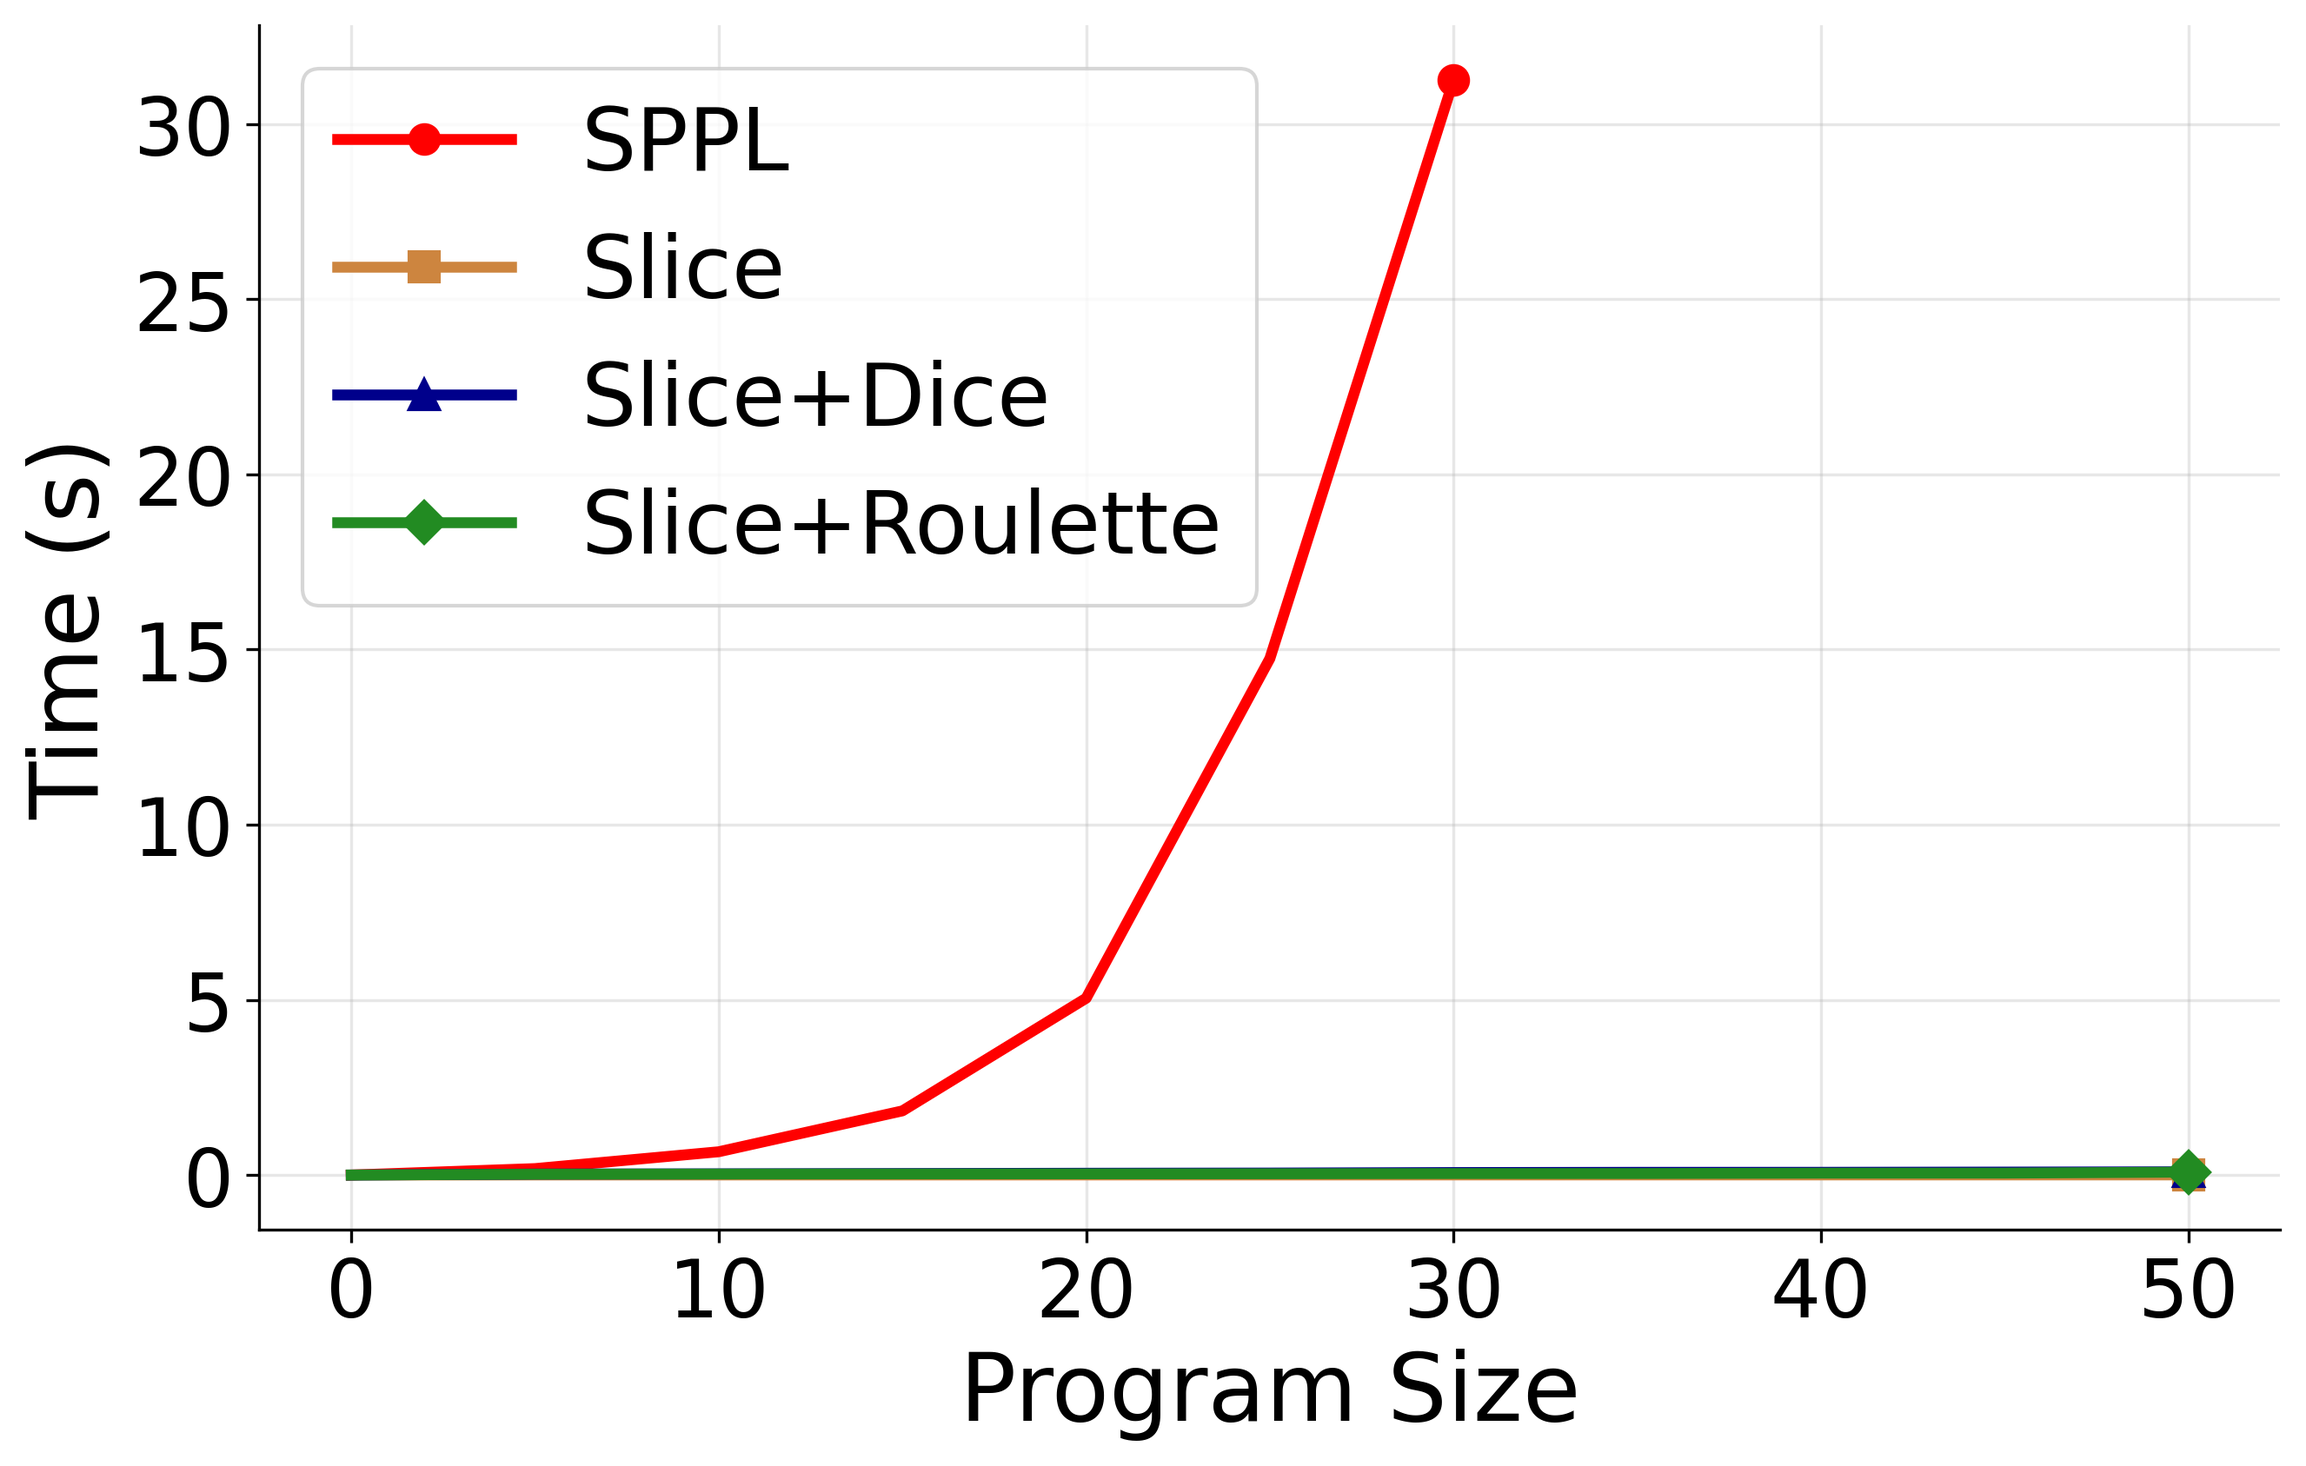
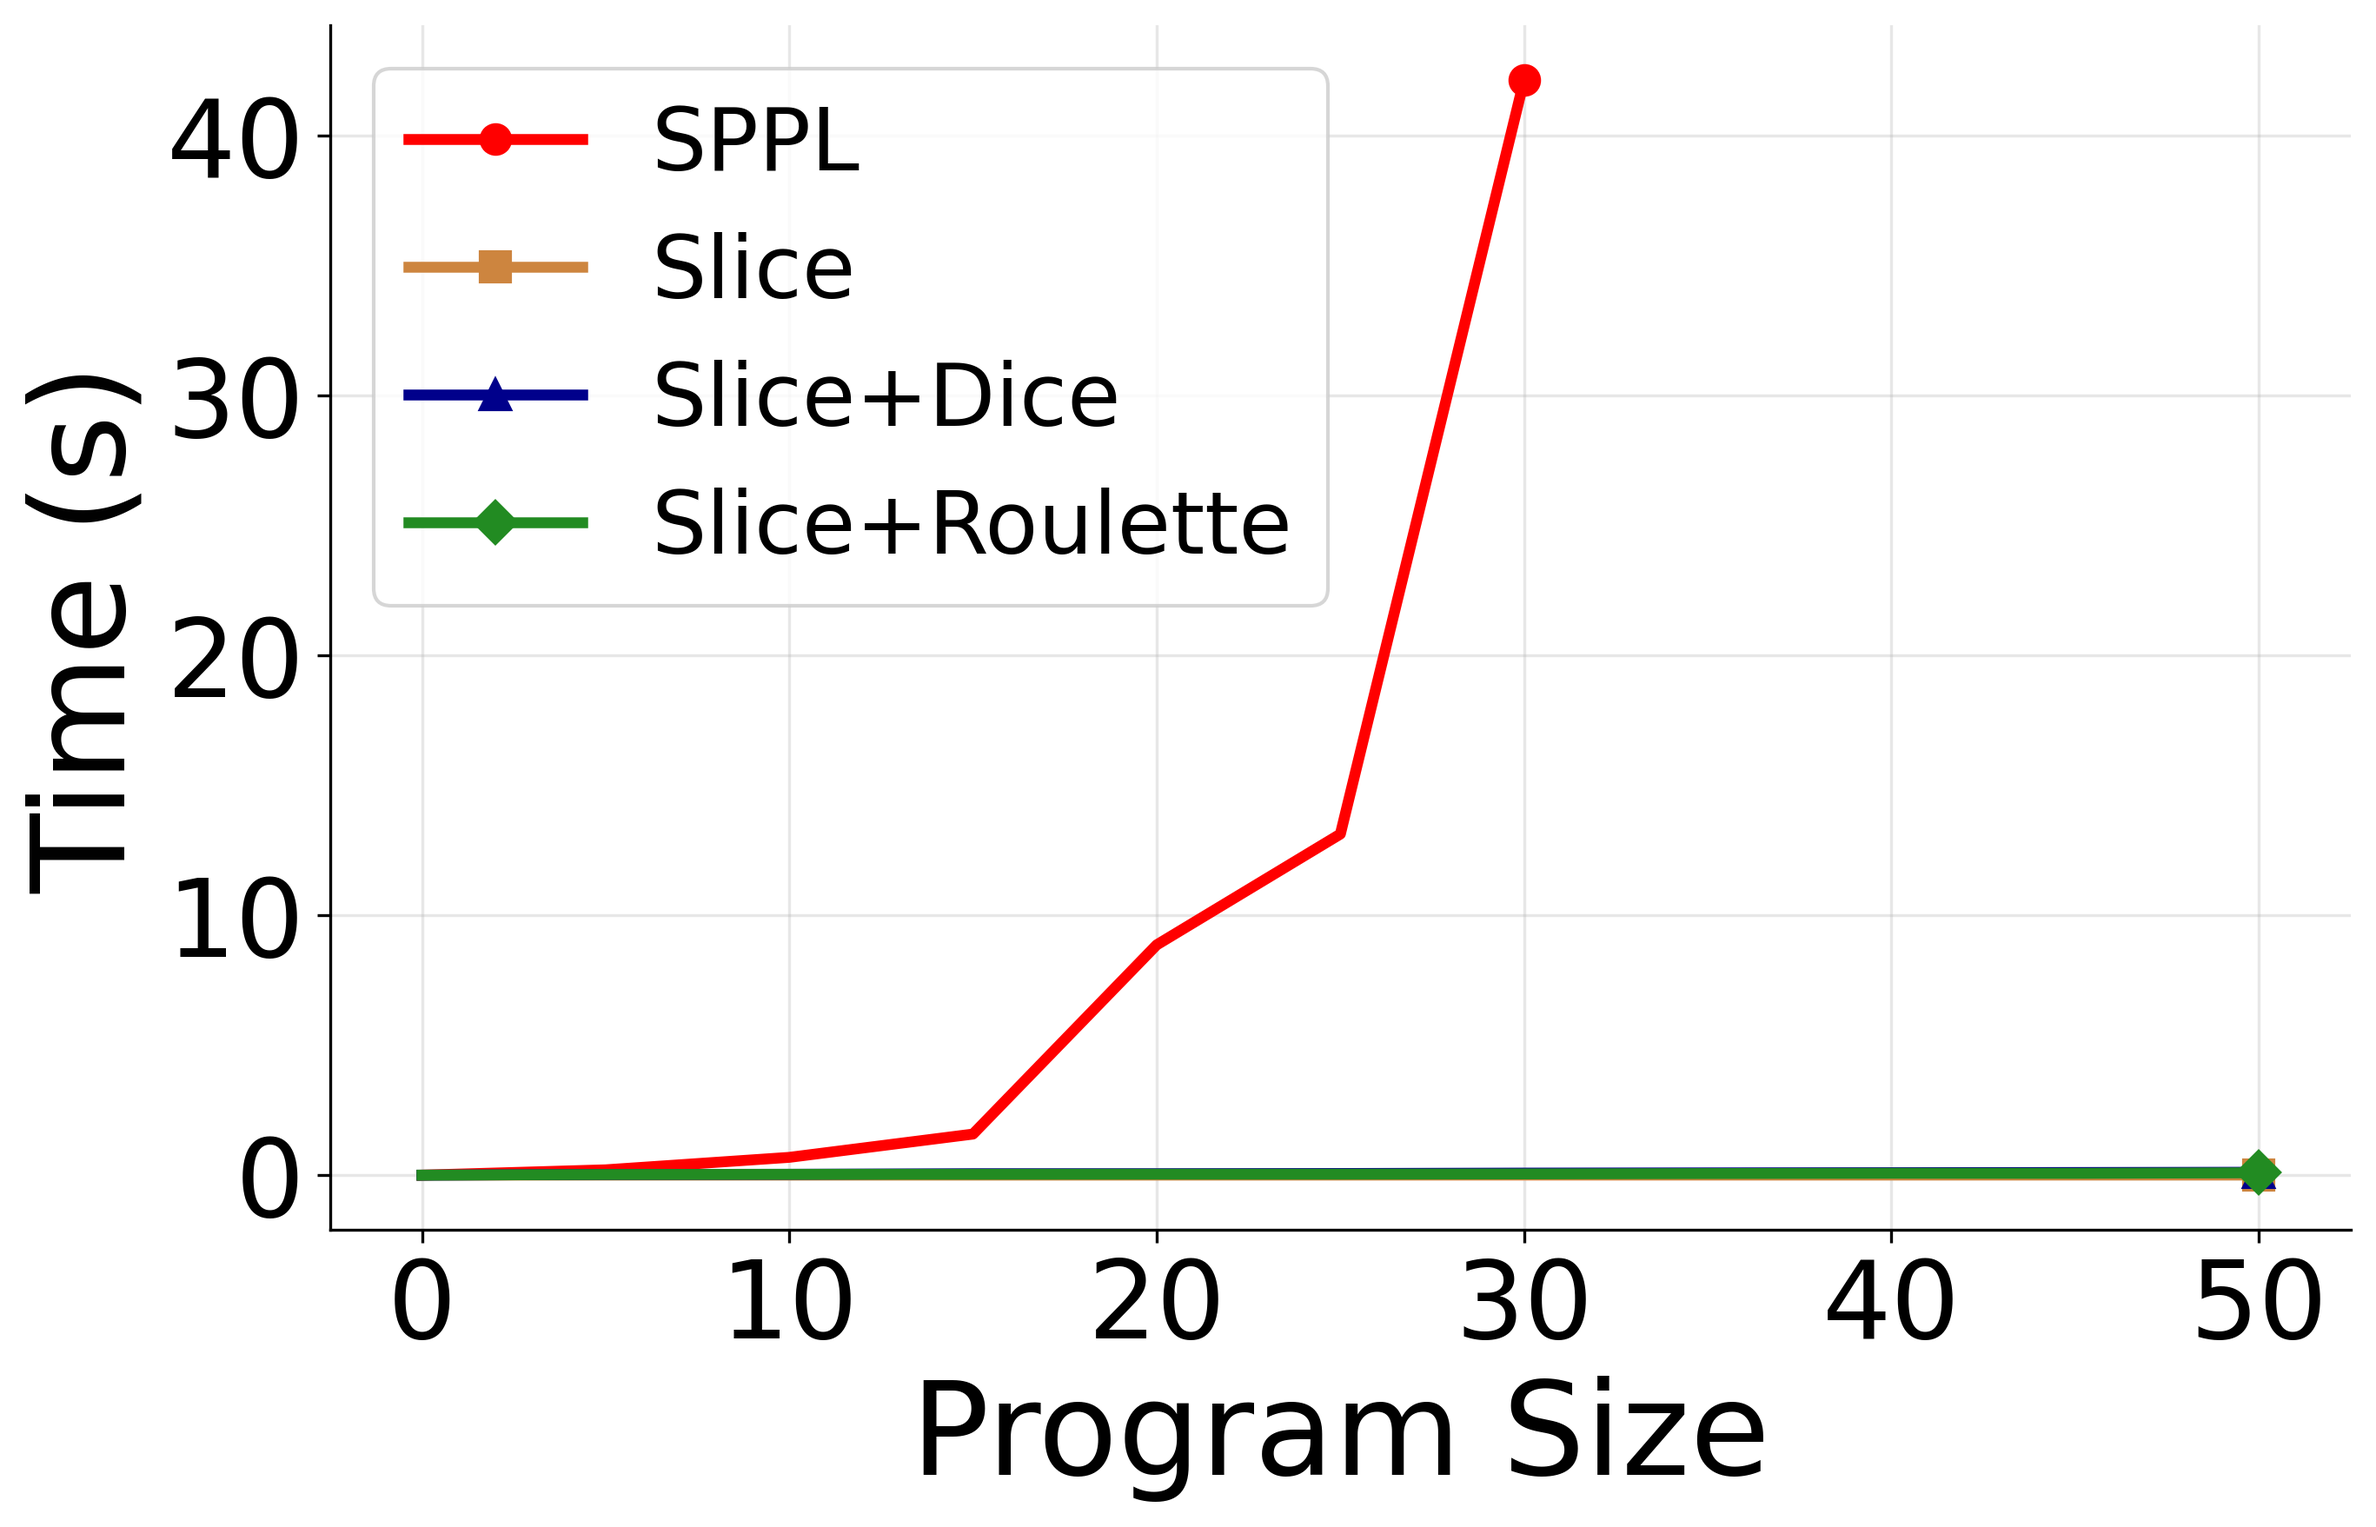
Larger plots

diff --git a/benchmarks/scaling/run.py b/benchmarks/scaling/run.py
@@ -438,11 +438,11 @@ def generate_line_graphs(benchmark_results, output_path,
     
     # Set larger font sizes globally for this figure
     plt.rcParams.update({
-        'axes.labelsize': 18,     # axis labels
-        'axes.titlesize': 18,     # plot title (if any)
-        'xtick.labelsize': 14,    # x tick labels
-        'ytick.labelsize': 14,    # y tick labels
-        'legend.fontsize': 14,    # legend text
+        'axes.labelsize': 36,     # axis labels
+        'axes.titlesize': 36,     # plot title (if any)
+        'xtick.labelsize': 30,    # x tick labels
+        'ytick.labelsize': 30,    # y tick labels
+        'legend.fontsize': 24,    # legend text
         'lines.markersize': 8     # marker size
     })
     
@@ -476,7 +476,7 @@ def generate_line_graphs(benchmark_results, output_path,
         plt.plot(all_prog_sizes, roulette_times, label="Slice+Roulette", color="forestgreen", marker='D', markevery=[-1], linewidth=3.0)
 
     plt.xlabel("Program Size")
-    plt.ylabel("Execution Time (seconds)")
+    plt.ylabel("Time (s)")
     
     # Remove top and right borders
     plt.gca().spines['top'].set_visible(False)
@@ -528,15 +528,15 @@ def main():
     tests_1_arg = [
         #build_conditional_independent_slice,
         #build_conditional_independent_fork_slice,
-        #build_conditional_random_independent_slice_1,
+        build_conditional_random_independent_slice_1,
         #build_conditional_random_independent_slice_2,
     ]
     
     tests_2_args = [
-        #build_alternating_guard_slice_1,
-        build_alternating_guard_slice_2,
+        build_alternating_guard_slice_1,
+        #build_alternating_guard_slice_2,
         #build_alternating_guard_slice_3,
-        #build_random_alternating_guard_slice
+        build_random_alternating_guard_slice
     ]
     
     # Run all benchmarks

diff --git a/images/scaling/run.py b/images/scaling/run.py
@@ -442,11 +442,11 @@ def generate_line_graphs(benchmark_results, output_path,
     
     # Set larger font sizes globally for this figure
     plt.rcParams.update({
-        'axes.labelsize': 26,     # axis labels
-        'axes.titlesize': 26,     # plot title (if any)
-        'xtick.labelsize': 22,    # x tick labels
-        'ytick.labelsize': 22,    # y tick labels
-        'legend.fontsize': 24,    # legend text
+        'axes.labelsize': 30,     # axis labels
+        'axes.titlesize': 30,     # plot title (if any)
+        'xtick.labelsize': 24,    # x tick labels
+        'ytick.labelsize': 24,    # y tick labels
+        'legend.fontsize': 22,    # legend text
         'lines.markersize': 8     # marker size
     })
     
